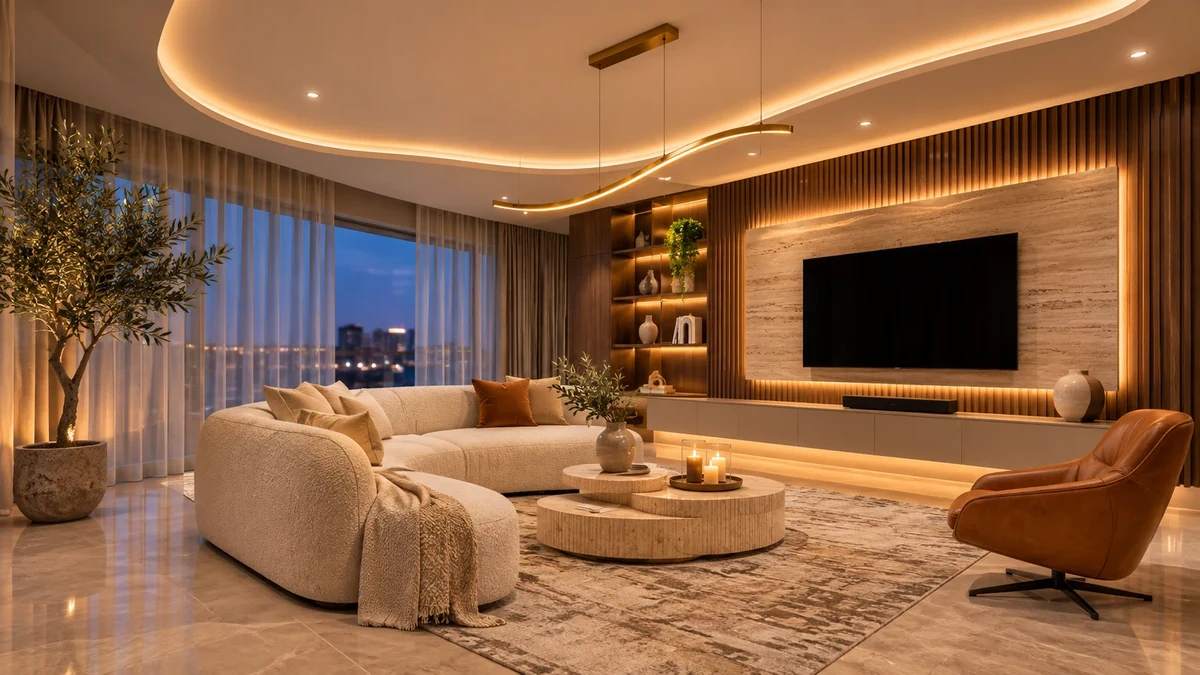
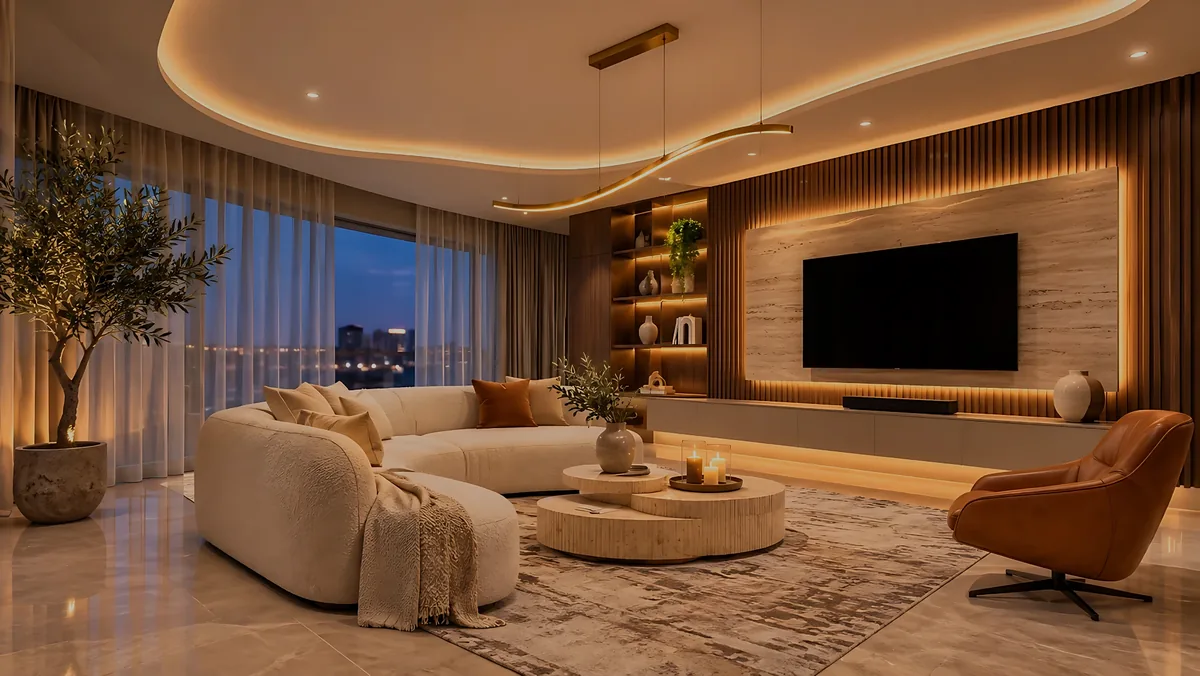
Hero: sharper 2000px living-room image, darkened with softer glows
Adds a 2000w WebP for large/retina screens and updates the img size.

Claude-Session: https://claude.ai/code/session_01ELdwAKhBt2vqUy2cJdKuWJ

diff --git a/index.html b/index.html
@@ -71,7 +71,7 @@
     <link rel="preconnect" href="https://fonts.googleapis.com" />
     <link rel="preconnect" href="https://fonts.gstatic.com" crossorigin />
     <link rel="stylesheet" href="css/home-hero.css" />
-    <link rel="preload" as="image" type="image/webp" imagesrcset="images/hero-living-800.webp 800w, images/hero-living-1200.webp 1200w, images/hero-living-1672.webp 1672w" imagesizes="100vw" fetchpriority="high" />
+    <link rel="preload" as="image" type="image/webp" imagesrcset="images/hero-living-800.webp 800w, images/hero-living-1200.webp 1200w, images/hero-living-1672.webp 1672w, images/hero-living-2000.webp 2000w" imagesizes="100vw" fetchpriority="high" />
     <link rel="stylesheet" href="https://cdnjs.cloudflare.com/ajax/libs/font-awesome/6.0.0-beta3/css/all.min.css" media="print" onload="this.media='all'" /><noscript><link rel="stylesheet" href="https://cdnjs.cloudflare.com/ajax/libs/font-awesome/6.0.0-beta3/css/all.min.css" /></noscript>
     <!-- ✅ Structured Data (JSON-LD for Business Info) -->
     <script type="application/ld+json">
@@ -167,8 +167,8 @@
     <section class="wh-hero" id="top">
       <div class="wh-bg" data-parallax-scale="1.2">
         <picture>
-          <source type="image/webp" srcset="images/hero-living-800.webp 800w, images/hero-living-1200.webp 1200w, images/hero-living-1672.webp 1672w" sizes="100vw" />
-          <img src="images/hero-living.jpg" alt="Warm-lit living room with a curved sofa, fluted wood wall and marble TV panel" width="1672" height="941" fetchpriority="high" decoding="async" />
+          <source type="image/webp" srcset="images/hero-living-800.webp 800w, images/hero-living-1200.webp 1200w, images/hero-living-1672.webp 1672w, images/hero-living-2000.webp 2000w" sizes="100vw" />
+          <img src="images/hero-living.jpg" alt="Warm-lit living room with a curved sofa, fluted wood wall and marble TV panel" width="2000" height="1126" fetchpriority="high" decoding="async" />
         </picture>
       </div>
       <div class="wh-shade"></div>
